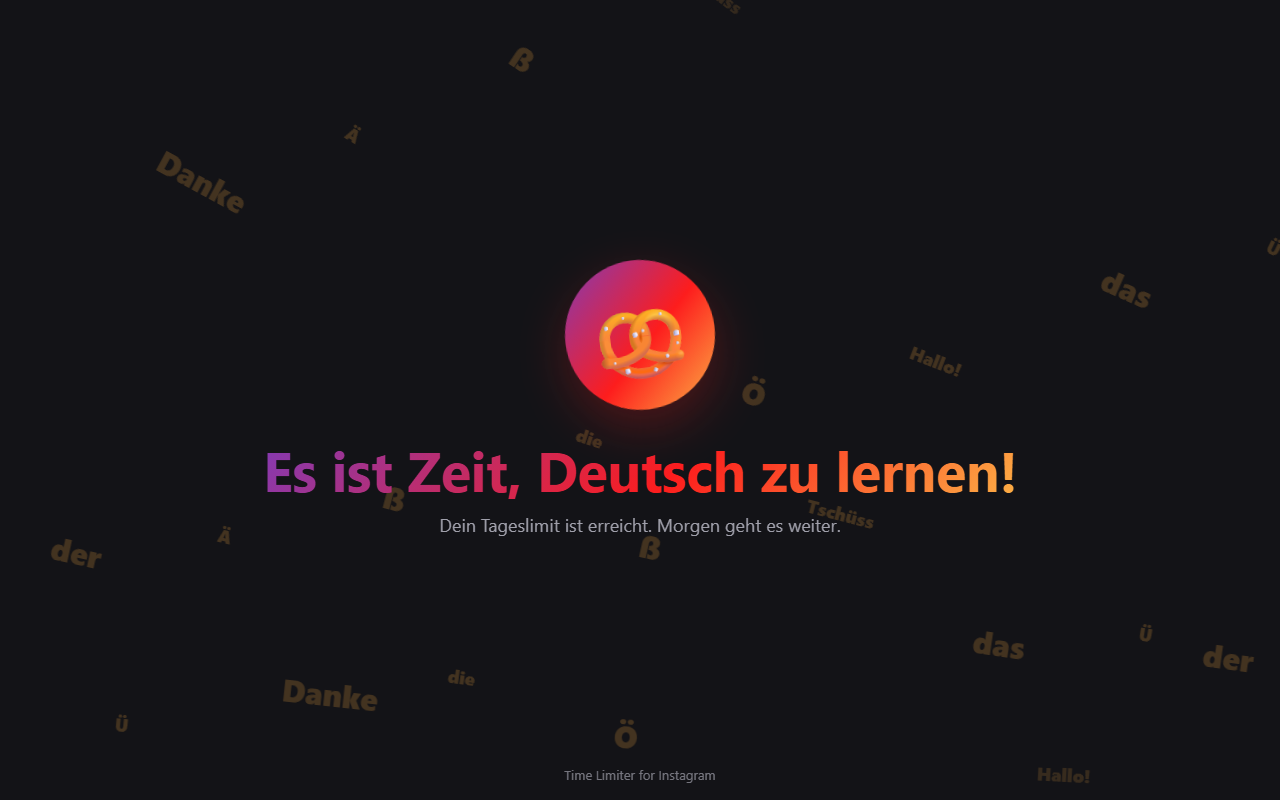
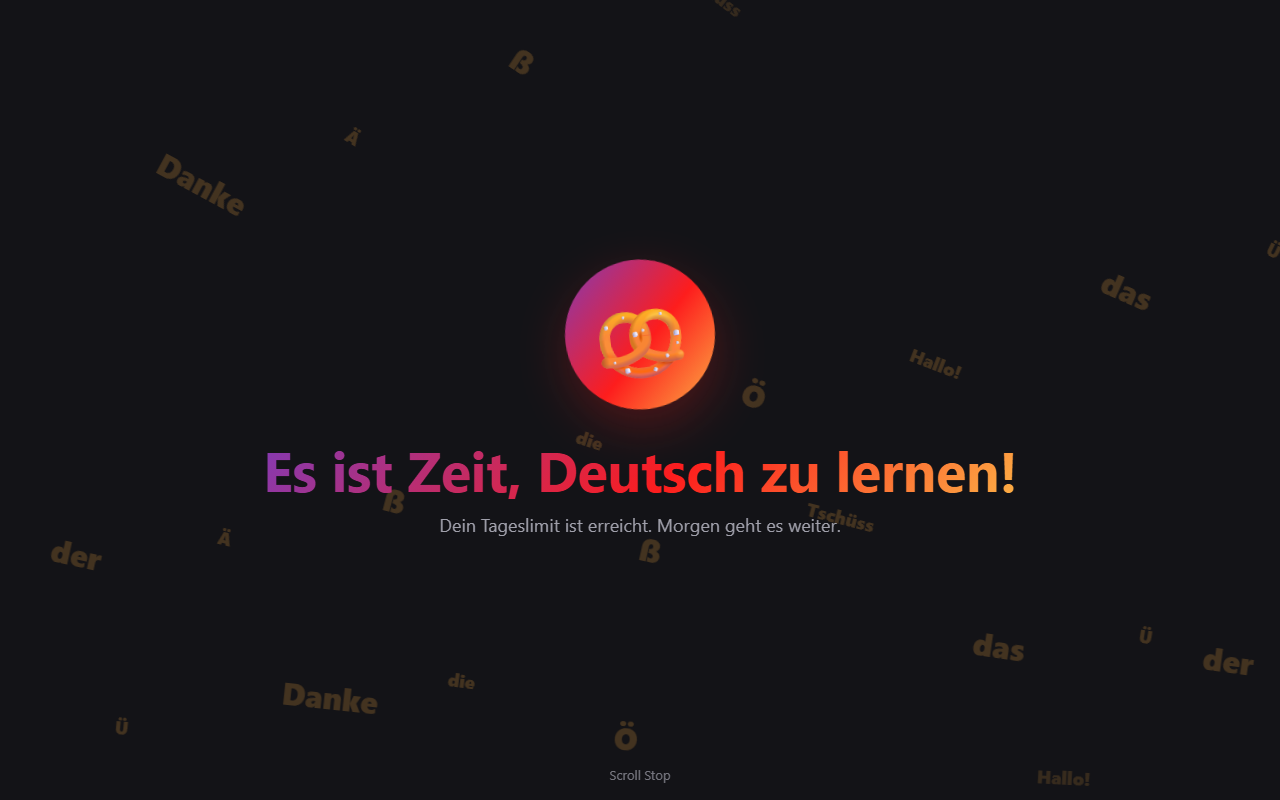
Rename to "Scroll Stop: Social Media Time Limit" and bump to 1.5.0
The extension now covers Instagram and X, so the old name was no longer
accurate. The repository name, Firefox add-on ID and release file names
stay the same, so installed copies, the force-install policy and the
removal-notification page keep working.

diff --git a/docs/goodbye.html b/docs/goodbye.html
@@ -4,7 +4,7 @@
   <meta charset="UTF-8">
   <meta name="viewport" content="width=device-width, initial-scale=1">
   <meta name="robots" content="noindex">
-  <title>Time Limiter for Instagram</title>
+  <title>Scroll Stop</title>
   <link rel="icon" href="icon.png">
   <style>
     :root { --bg: #fafafb; --surface: #ffffff; --fg: #18181c; --muted: #62626d; --border: #e4e4ea; --ok: #1a8a4a; --error: #c62828; }
@@ -32,7 +32,7 @@
 <body>
   <main>
     <img src="icon.png" alt="">
-    <h1 id="title">Time Limiter for Instagram</h1>
+    <h1 id="title">Scroll Stop</h1>
     <p id="text"></p>
     <p id="status" role="status">Wird gesendet …</p>
   </main>
@@ -67,7 +67,7 @@
 
     async function send() {
       if (!/^[^\s@]+@[^\s@]+\.[^\s@]+$/.test(to)) {
-        titleEl.textContent = 'Time Limiter for Instagram';
+        titleEl.textContent = 'Scroll Stop';
         textEl.textContent = 'Es ist keine Kontaktadresse hinterlegt.';
         setStatus('');
         return;
@@ -88,15 +88,15 @@
 
       const body = isTest
         ? {
-            _subject: 'Test: Time Limiter for Instagram',
+            _subject: 'Test: Scroll Stop',
             _template: 'box',
             Nachricht: 'Dies ist eine Test-Nachricht. Benachrichtigungen an diese Adresse funktionieren.',
             Zeitpunkt: `${date}, ${time}`,
           }
         : {
-            _subject: 'Time Limiter for Instagram wurde entfernt',
+            _subject: 'Scroll Stop wurde entfernt',
             _template: 'box',
-            Nachricht: `Die Erweiterung „Time Limiter for Instagram“ wurde aus ${browser} entfernt.`,
+            Nachricht: `Die Erweiterung „Scroll Stop“ wurde aus ${browser} entfernt.`,
             Zeitpunkt: `${date}, ${time}`,
           };
 

diff --git a/docs/privacy.html b/docs/privacy.html
@@ -3,7 +3,7 @@
 <head>
   <meta charset="UTF-8">
   <meta name="viewport" content="width=device-width, initial-scale=1">
-  <title>Privacy Policy – Time Limiter for Instagram</title>
+  <title>Privacy Policy – Scroll Stop</title>
   <link rel="icon" href="icon.png">
   <style>
     :root { --bg: #fafafb; --fg: #18181c; --muted: #62626d; --accent: #a0309a; }
@@ -25,13 +25,13 @@
 </head>
 <body>
   <main>
-    <p><a href="./">← Time Limiter for Instagram</a></p>
+    <p><a href="./">← Scroll Stop</a></p>
     <h1>Privacy Policy</h1>
     <p>Last updated: September 28, 2026</p>
 
     <h2>Summary</h2>
     <p>
-      Time Limiter for Instagram does not collect, sell or share any personal data, and everything
+      Scroll Stop does not collect, sell or share any personal data, and everything
       it stores stays on your device. The one exception is the optional removal notification
       described below, which only runs if you set an accountability contact.
     </p>

diff --git a/docs/index.html b/docs/index.html
@@ -3,7 +3,7 @@
 <head>
   <meta charset="UTF-8">
   <meta name="viewport" content="width=device-width, initial-scale=1">
-  <title>Time Limiter for Instagram</title>
+  <title>Scroll Stop: Social Media Time Limit</title>
   <meta name="description" content="Free browser extension that limits your daily Instagram time, enforces a bedtime curfew, and is password-protected so the limits stick.">
   <link rel="icon" href="icon.png">
   <style>
@@ -141,7 +141,7 @@
   <div class="wrap">
     <header class="hero">
       <img src="icon.png" alt="">
-      <h1>Time Limiter for Instagram</h1>
+      <h1>Scroll Stop</h1>
       <p class="tagline">
         A free browser extension that caps your daily time on Instagram and X, enforces a
         bedtime curfew, and locks the settings behind a password so the limits stick.

diff --git a/src/unlock.html b/src/unlock.html
@@ -2,7 +2,7 @@
 <html lang="en">
 <head>
   <meta charset="UTF-8">
-  <title>Locked – Time Limiter for Instagram</title>
+  <title>Locked – Scroll Stop</title>
   <link rel="stylesheet" href="page.css">
 </head>
 <body>
@@ -13,7 +13,7 @@
     </header>
 
     <p>
-      Time Limiter for Instagram protects the browser's extensions page. Enter the password to open
+      Scroll Stop protects the browser's extensions page. Enter the password to open
       it for <span id="minutes"></span> minutes.
     </p>
 

diff --git a/src/blocked.html b/src/blocked.html
@@ -3,7 +3,7 @@
 <head>
   <meta charset="UTF-8">
   <meta name="viewport" content="width=device-width, initial-scale=1">
-  <title>Pause – Time Limiter</title>
+  <title>Pause – Scroll Stop</title>
   <link rel="stylesheet" href="blocked.css">
 </head>
 <body>
@@ -15,7 +15,7 @@
     <p id="text"></p>
   </main>
 
-  <footer>Time Limiter for Instagram</footer>
+  <footer>Scroll Stop</footer>
 
   <script src="shared.js"></script>
   <script src="blocked.js"></script>

diff --git a/scripts/screenshots.js b/scripts/screenshots.js
@@ -149,7 +149,7 @@ const PROMO_TILE = `<!DOCTYPE html>
   p { margin: 0; font-size: 16px; opacity: 0.92; }
 </style></head><body>
   <img src="icons/icon128.png" alt="">
-  <div><h1>Time Limiter for Instagram</h1><p>Daily limit · Curfew · Password lock</p></div>
+  <div><h1>Scroll Stop</h1><p>Social media time limit · Curfew · Password lock</p></div>
 </body></html>`;
 
 function findBrowser() {

diff --git a/src/popup.html b/src/popup.html
@@ -2,13 +2,13 @@
 <html lang="en">
 <head>
   <meta charset="UTF-8">
-  <title>Time Limiter for Instagram</title>
+  <title>Scroll Stop</title>
   <link rel="stylesheet" href="popup.css">
 </head>
 <body>
   <header>
     <img src="icons/icon48.png" alt="" width="28" height="28">
-    <h1>Time Limiter for Instagram</h1>
+    <h1>Scroll Stop</h1>
   </header>
 
   <section class="today">

diff --git a/src/background.js b/src/background.js
@@ -1,7 +1,7 @@
 'use strict';
 
 // ---------------------------------------------------------------------------
-// Time Limiter for Instagram — background script
+// Scroll Stop — background script
 //
 // Runs as a Manifest V3 service worker in Chromium browsers and as an MV3
 // background script in Firefox. All tracking state lives in extension storage

diff --git a/src/setup.html b/src/setup.html
@@ -2,7 +2,7 @@
 <html lang="en">
 <head>
   <meta charset="UTF-8">
-  <title>Time Limiter for Instagram – Password</title>
+  <title>Scroll Stop – Password</title>
   <link rel="stylesheet" href="page.css">
 </head>
 <body>

diff --git a/store/SUBMISSION.md b/store/SUBMISSION.md
@@ -57,7 +57,7 @@ https://addons.opera.com/developer/. Upload the same Chromium zip with the same 
 
 ## Listing text
 
-**Name:** Time Limiter for Instagram
+**Name:** Scroll Stop: Social Media Time Limit
 
 **Summary (short description, ≤ 132 characters):**
 Shared daily time limit and curfew for Instagram and X, with a friendly reminder once time is up. Password-protected.
@@ -66,7 +66,7 @@ Shared daily time limit and curfew for Instagram and X, with a friendly reminder
 
 > Take back your time from Instagram and X.
 >
-> Time Limiter for Instagram counts only the time Instagram or X is actually on screen, meaning the active tab in the focused window, from one shared daily budget.
+> Scroll Stop counts only the time Instagram or X is actually on screen, meaning the active tab in the focused window, from one shared daily budget.
 >
 > FEATURES
 > • Daily time limit: choose how many minutes per day you allow yourself across Instagram and X. The counter resets at midnight.

diff --git a/README.md b/README.md
@@ -1,4 +1,6 @@
-# Time Limiter for Instagram
+# Scroll Stop: Social Media Time Limit
+
+*Formerly “Time Limiter for Instagram”.*
 
 A free, open-source browser extension that caps your daily time on Instagram and X, enforces a bedtime curfew, and locks its settings behind a password so the limits stick.
 
